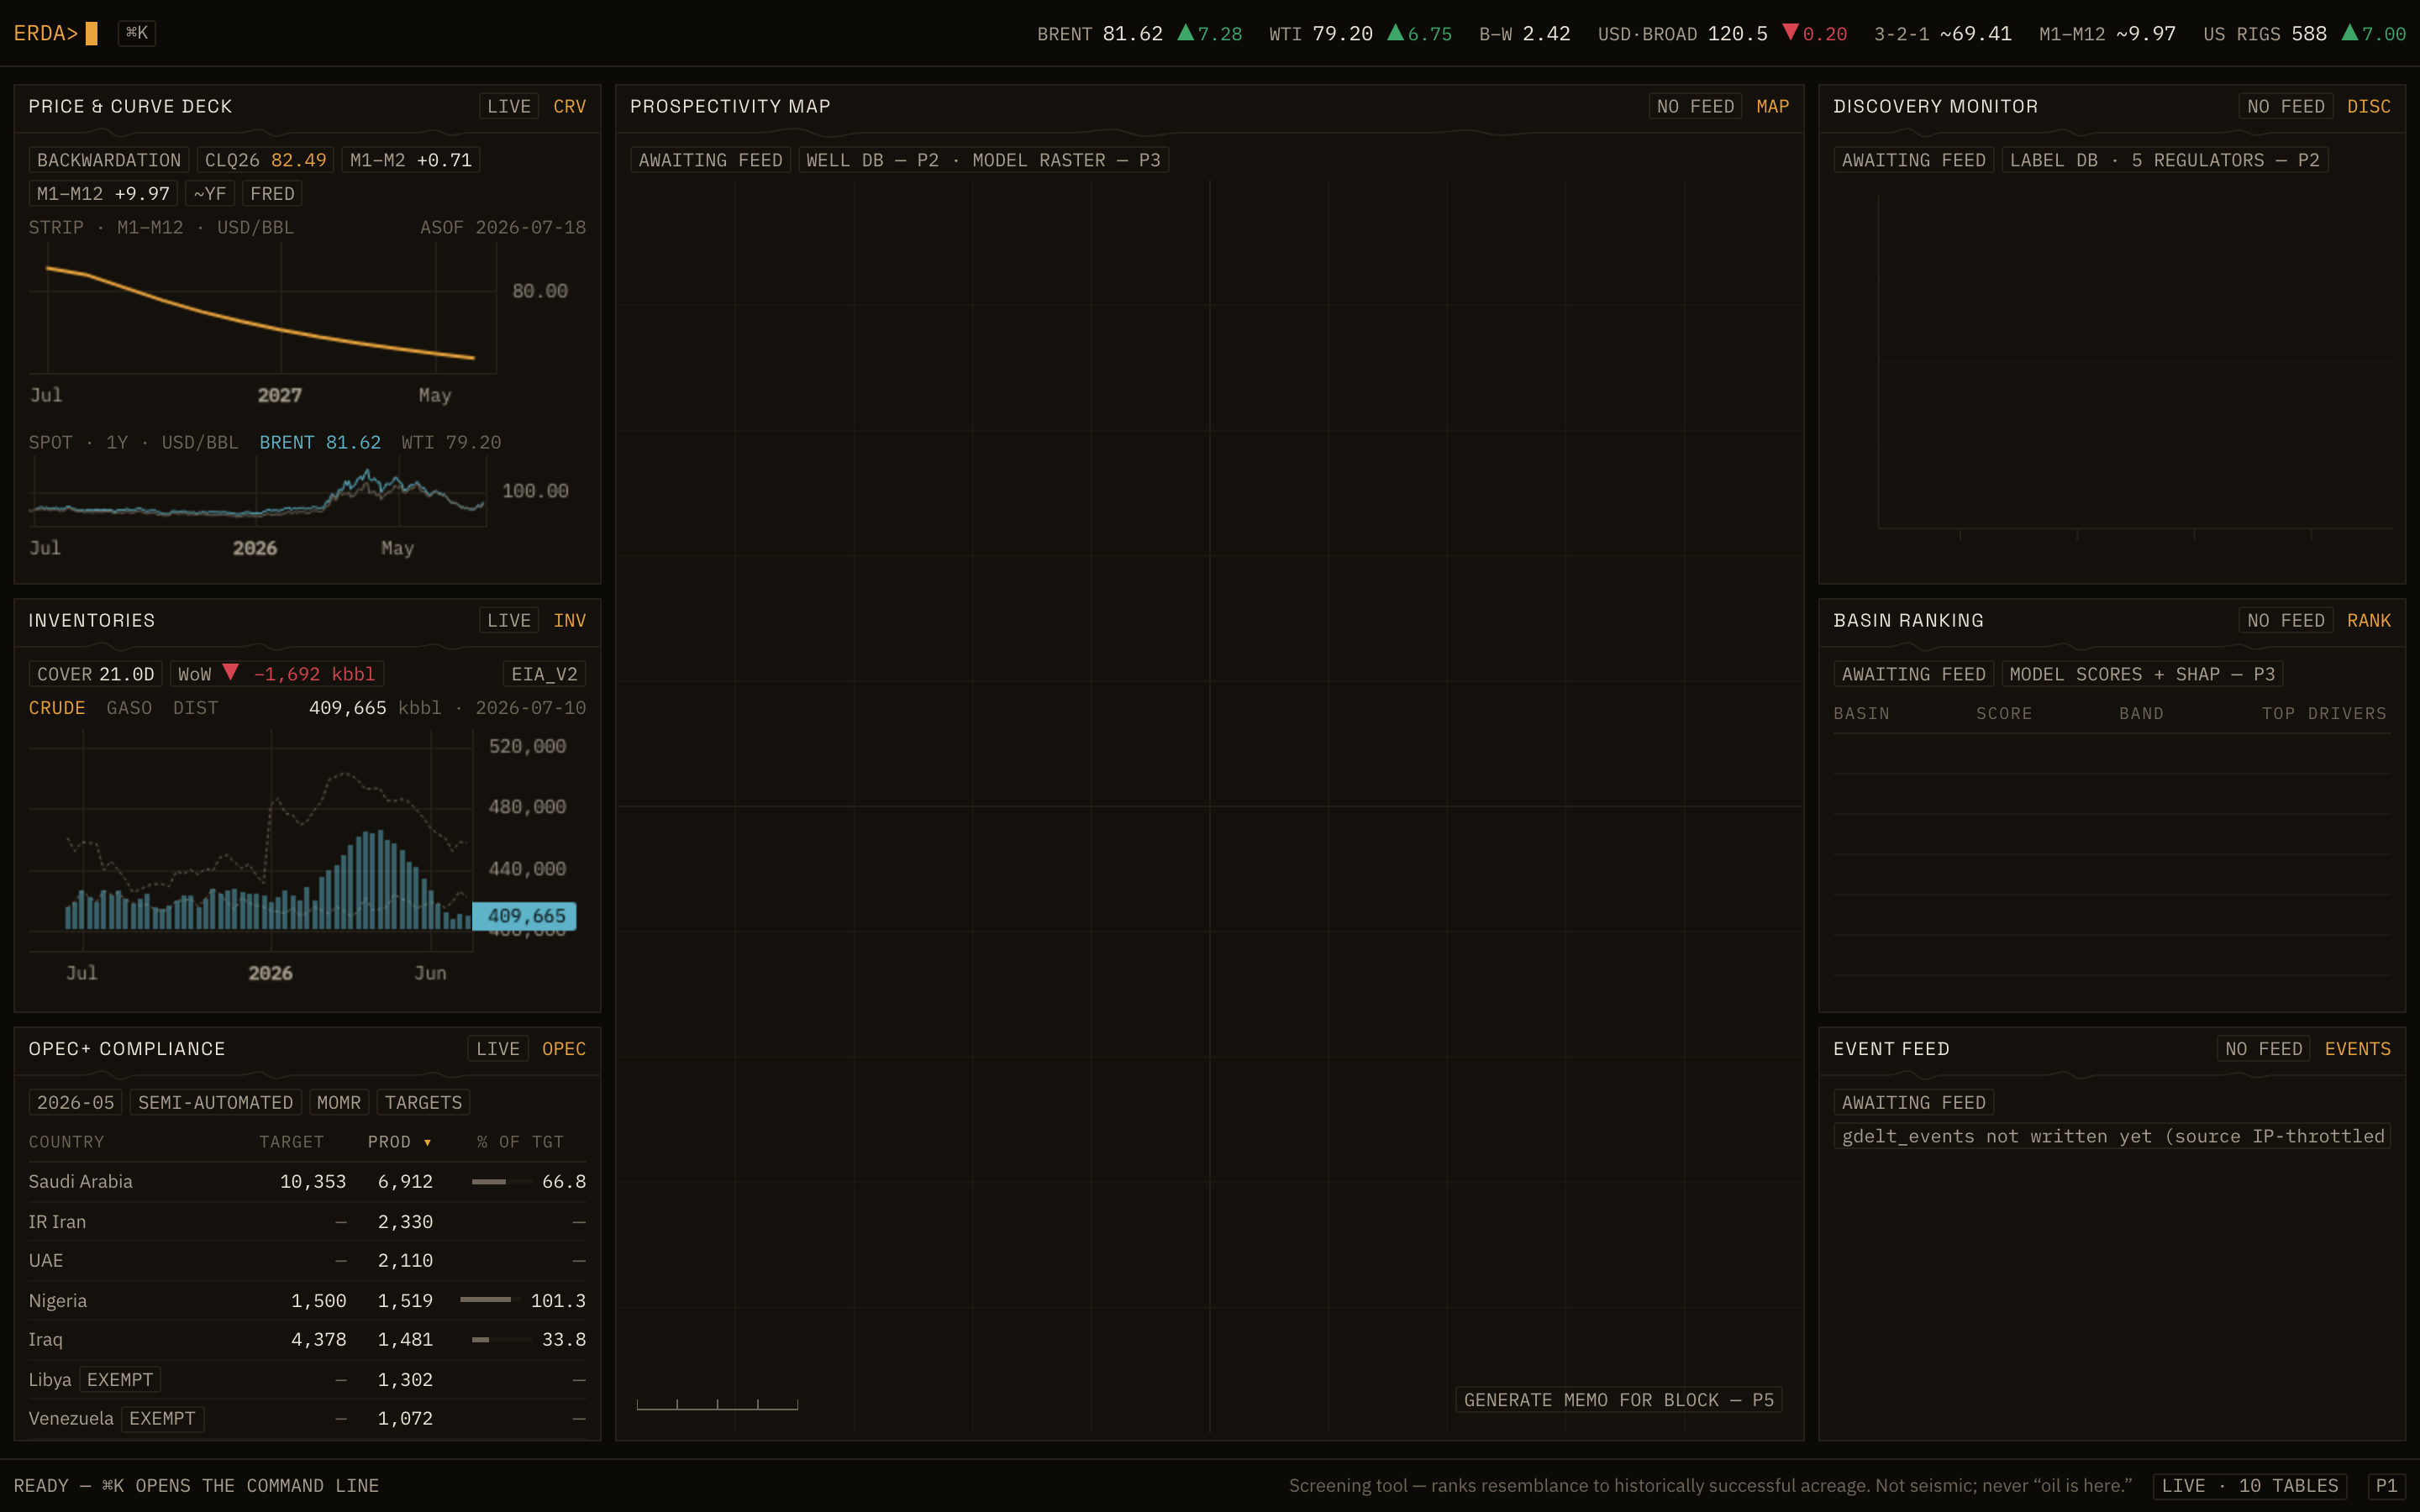
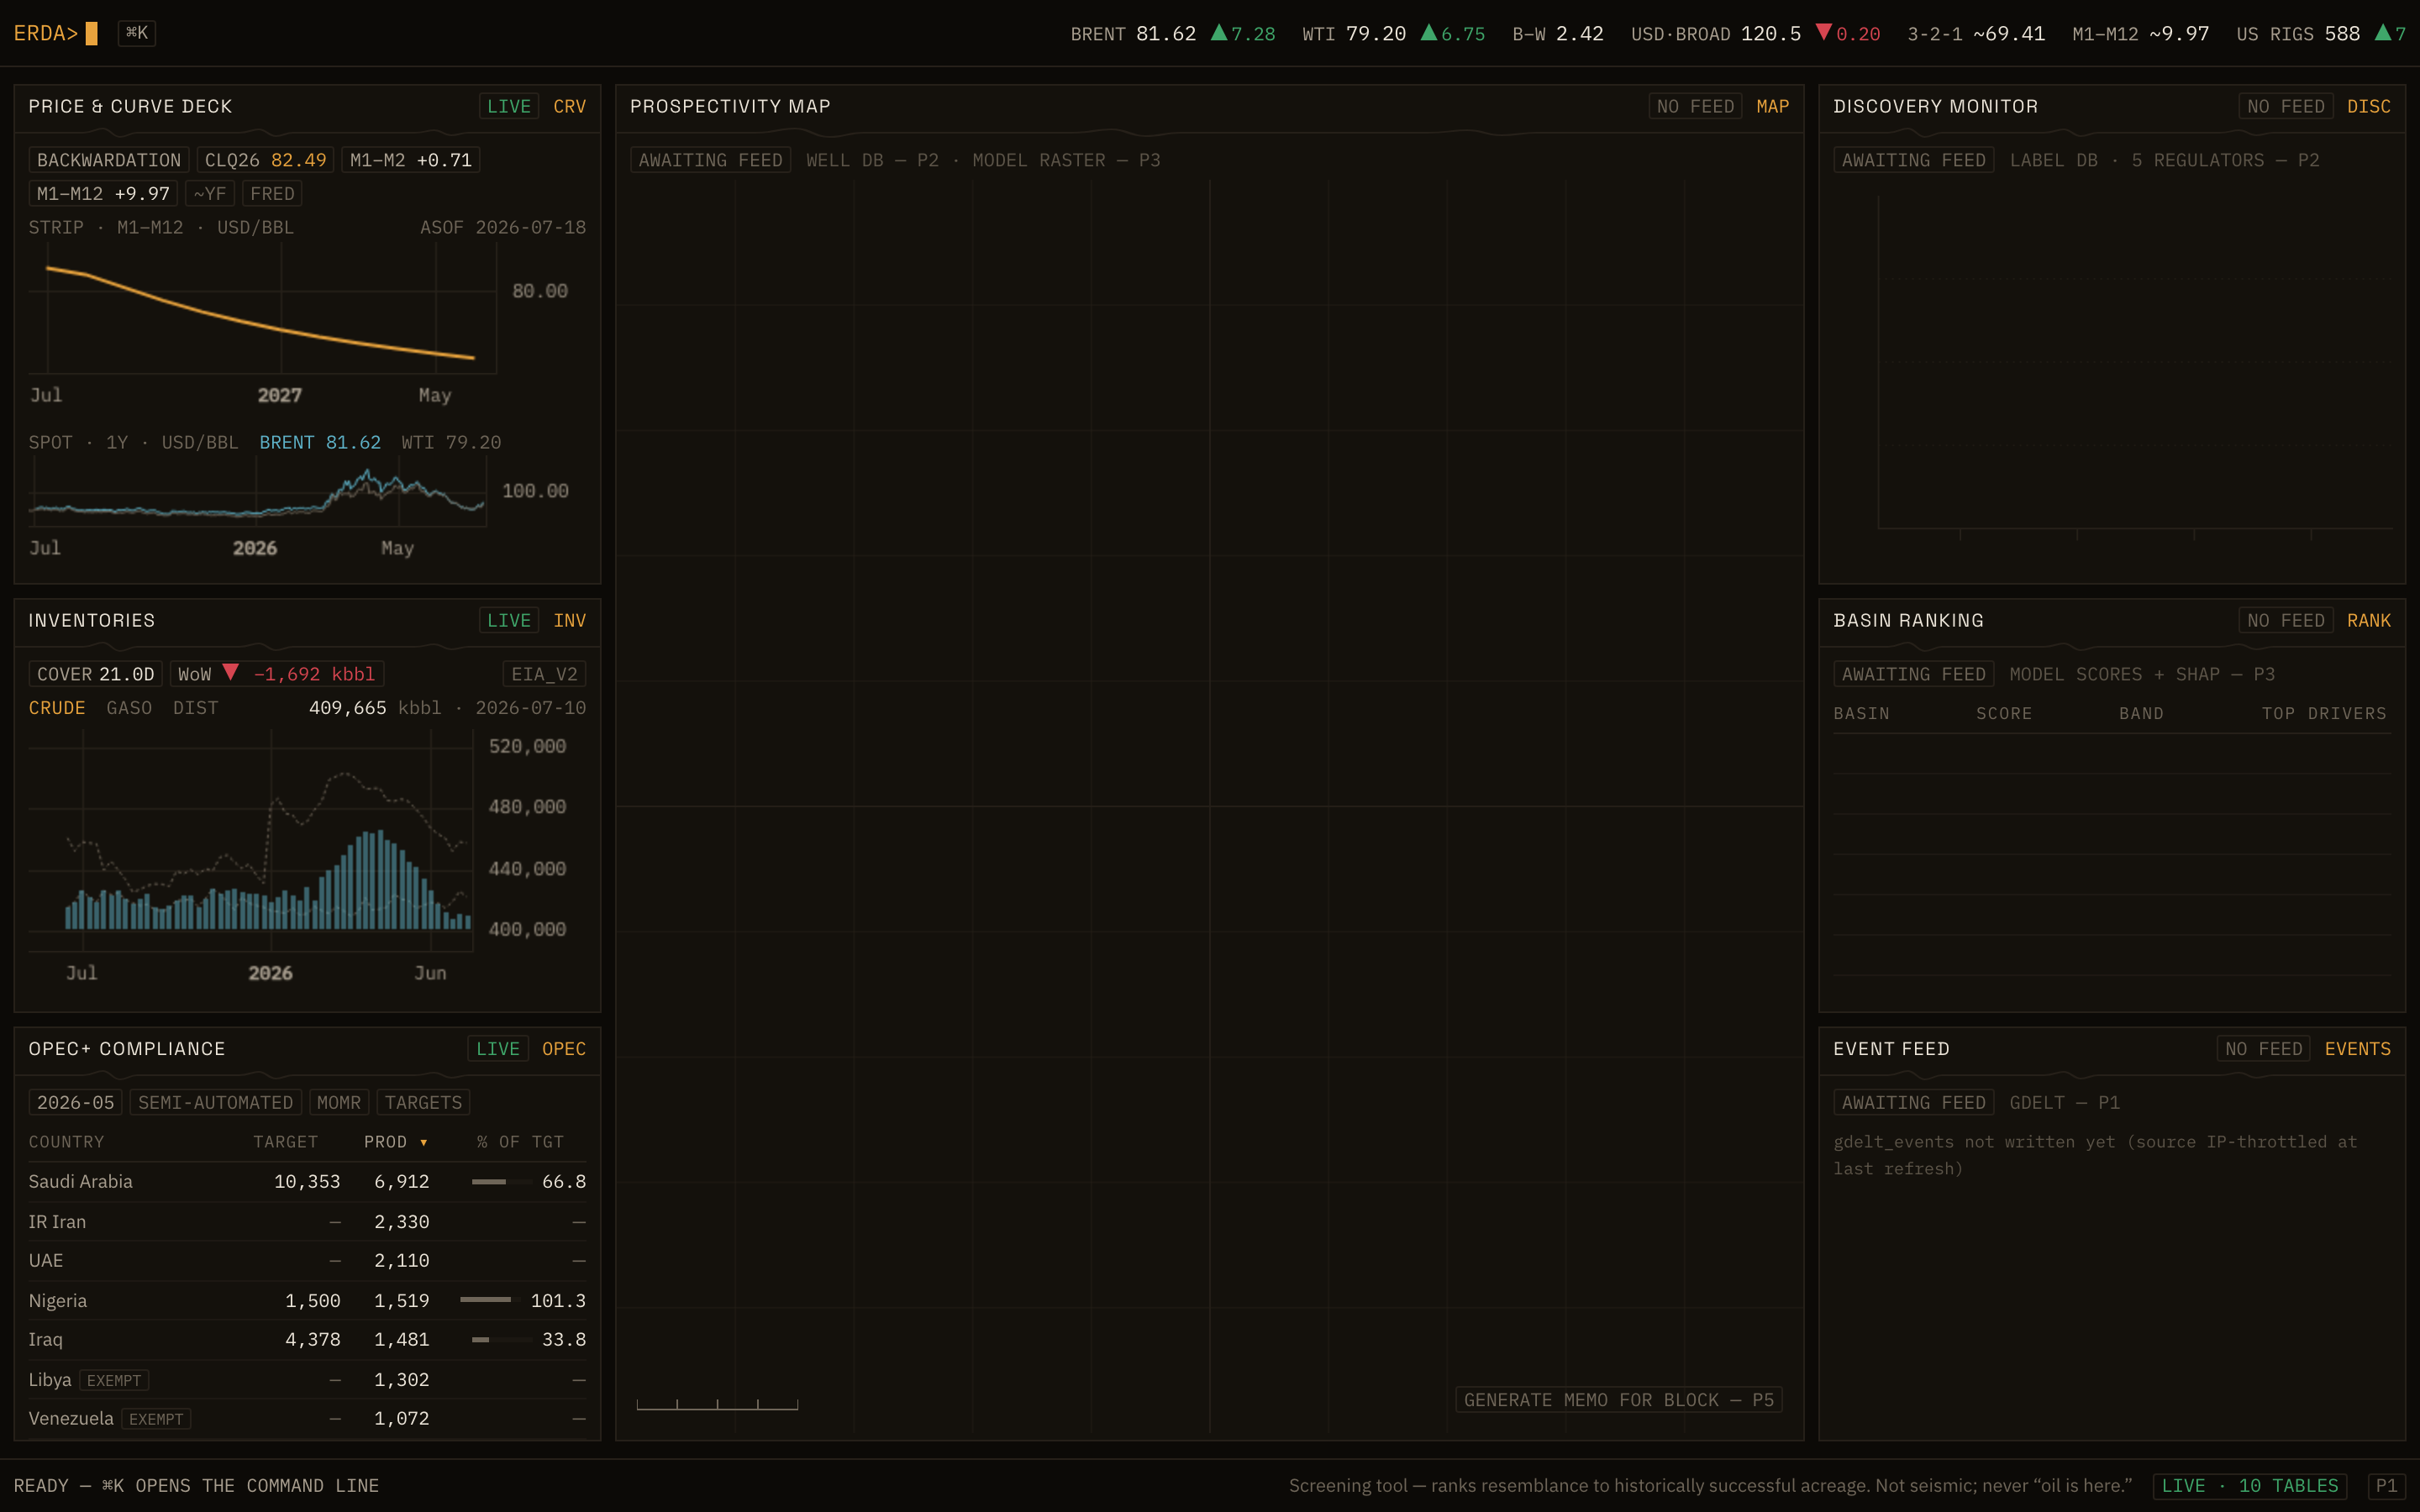
polish(web): verify-round fixes — layered component classes, band disclosure, honest details
- root cause: unlayered .chip/.panel beat text-* utilities, muting every status
  color; moved component classes into @user components — LIVE/STALE/OVERALL
  chips now render their sanctioned colors
- /validation: reconciliation thresholds disclosed in the panel caption
  (pass ≤5 / warn ≤10 / fail >10, Δ vs JODI); WARN tile count at data brightness
- EVENTS throttle reason wraps as prose instead of clipping mid-word
- INV: last-value tag removed (chip row already states it) — axis labels clear
- ticker: integer deltas for rig counts; Δ-window note in hover provenance
- crack-spread ~69 and OPEC production levels verified against independent
  sources (hand-recomputed from RB/HO quotes; EIA intl corroborates MOMR) —
  data is right, priors were peacetime

diff --git a/apps/web/src/app/globals.css b/apps/web/src/app/globals.css
@@ -65,49 +65,54 @@ body {
   scrollbar-color: var(--line) transparent;
 }
 
-/* ————— skill §2/§3 component classes ————— */
-.numeric {
-  font-family: var(--font-plex-mono), monospace;
-  font-variant-numeric: tabular-nums;
-}
+/* ————— skill §2/§3 component classes —————
+   In @layer components so Tailwind utilities (utilities layer, higher) can
+   modify them — e.g. `chip text-warn` on a STALE badge. Unlayered rules would
+   silently beat utilities (cascade: unlayered > layered). */
+@layer components {
+  .numeric {
+    font-family: var(--font-plex-mono), monospace;
+    font-variant-numeric: tabular-nums;
+  }
 
-.panel {
-  background: var(--bg1);
-  border: 1px solid var(--line);
-  border-radius: 0;
-  transition: border-color 120ms;
-}
+  .panel {
+    background: var(--bg1);
+    border: 1px solid var(--line);
+    border-radius: 0;
+    transition: border-color 120ms;
+  }
 
-/* Active state (command focus) — gold is sanctioned for active states (§13.1). */
-.panel--active {
-  border-color: var(--gold);
-}
+  /* Active state (command focus) — gold is sanctioned for active states (§13.1). */
+  .panel--active {
+    border-color: var(--gold);
+  }
 
-.panel-title {
-  font-family: var(--font-space-grotesk), sans-serif;
-  font-size: 11px;
-  text-transform: uppercase;
-  letter-spacing: 0.08em;
-  color: var(--ink);
-}
+  .panel-title {
+    font-family: var(--font-space-grotesk), sans-serif;
+    font-size: 11px;
+    text-transform: uppercase;
+    letter-spacing: 0.08em;
+    color: var(--ink);
+  }
 
-.panel-mnemo {
-  font-family: var(--font-plex-mono), monospace;
-  color: var(--gold);
-}
+  .panel-mnemo {
+    font-family: var(--font-plex-mono), monospace;
+    color: var(--gold);
+  }
 
-.chip {
-  display: inline-flex;
-  align-items: center;
-  height: 16px;
-  padding: 0 4px;
-  border: 1px solid var(--line);
-  border-radius: 2px;
-  font-family: var(--font-plex-mono), monospace;
-  font-size: 11px;
-  line-height: 1;
-  color: var(--ink-dim);
-  white-space: nowrap;
+  .chip {
+    display: inline-flex;
+    align-items: center;
+    height: 16px;
+    padding: 0 4px;
+    border: 1px solid var(--line);
+    border-radius: 2px;
+    font-family: var(--font-plex-mono), monospace;
+    font-size: 11px;
+    line-height: 1;
+    color: var(--ink-dim);
+    white-space: nowrap;
+  }
 }
 
 /* Command-line caret — the §13.1 signature. Steady: the idle prompt is an

diff --git a/apps/web/src/components/TopBar.tsx b/apps/web/src/components/TopBar.tsx
@@ -14,10 +14,13 @@ const PLACEHOLDER_INSTRUMENTS = ["BRENT", "WTI", "B–W", "3-2-1", "M1–M12", "
 function Delta({ delta }: { delta?: number | null }) {
   if (delta == null || delta === 0) return null;
   const up = delta > 0;
+  const abs = Math.abs(delta);
+  // Native precision: integer series (rig counts) never grow fake decimals.
+  const text = Number.isInteger(delta) ? abs.toFixed(0) : abs.toFixed(abs >= 10 ? 1 : 2);
   return (
     <span className={`numeric text-[11px] ${up ? "text-oil" : "text-gas"}`}>
       {up ? "▲" : "▼"}
-      {Math.abs(delta) >= 10 ? Math.abs(delta).toFixed(0) : Math.abs(delta).toFixed(2)}
+      {text}
     </span>
   );
 }
@@ -56,11 +59,11 @@ export function TopBar({ onOpenPalette }: { onOpenPalette: () => void }) {
               <span
                 key={inst.label}
                 className="flex items-baseline gap-1.5"
-                title={`${inst.unit} · as of ${inst.asof} · ${inst.provenance.source_id} · ${
-                  inst.provenance.source_url
-                }${inst.indicative ? " · indicative (unofficial source)" : ""}${
-                  inst.note ? ` · ${inst.note}` : ""
-                }`}
+                title={`${inst.unit} · as of ${inst.asof} · Δ vs prior print · ${
+                  inst.provenance.source_id
+                } · ${inst.provenance.source_url}${
+                  inst.indicative ? " · indicative (unofficial source)" : ""
+                }${inst.note ? ` · ${inst.note}` : ""}`}
               >
                 <span className="font-mono text-[11px] text-ink-dim">{inst.label}</span>
                 <span className="numeric text-[12px] text-ink">

diff --git a/apps/web/src/components/panels/EventsPanel.tsx b/apps/web/src/components/panels/EventsPanel.tsx
@@ -18,7 +18,12 @@ export function EventsPanel() {
   if (!data || !data.available) {
     return (
       <div className="flex h-full flex-col pt-1">
-        <EmptyState feedNote={data?.reason ?? "GDELT — P1"} />
+        <EmptyState feedNote="GDELT — P1" />
+        {data?.reason && (
+          <p className="px-2 pt-1 font-mono text-[10px] leading-4 text-ink-faint/80">
+            {data.reason}
+          </p>
+        )}
       </div>
     );
   }

diff --git a/apps/web/src/app/validation/page.tsx b/apps/web/src/app/validation/page.tsx
@@ -215,7 +215,7 @@ function ReconSection({ rows }: { rows: ReconRow[] }) {
     <ReportPanel
       title="EIA ↔ JODI Reconciliation"
       mnemo="RCN"
-      caption="monthly production kb/d, both sources side by side"
+      caption="monthly production kb/d, both sources side by side · pass |Δ| ≤ 5% · warn ≤ 10% · fail > 10% (Δ vs JODI)"
       right={<span className="chip text-ink-faint">{rows.length} CHECKS</span>}
     >
       <table className="w-full border-collapse">
@@ -430,7 +430,7 @@ function SummaryStrip({
 }) {
   const tiles: { label: string; count: number; cls: string }[] = [
     { label: "PASS", count: summary.pass, cls: "text-oil" },
-    { label: "WARN", count: summary.warn, cls: "text-ink-dim" },
+    { label: "WARN", count: summary.warn, cls: "text-ink" },
     { label: "FAIL", count: summary.fail, cls: "text-warn" },
   ];
   return (

diff --git a/apps/web/src/components/panels/InventoriesPanel.tsx b/apps/web/src/components/panels/InventoriesPanel.tsx
@@ -99,6 +99,9 @@ function StocksChart({ series }: { series: InventorySeries }) {
     bars.current = c.addSeries(HistogramSeries, {
       color: "rgba(95, 179, 201, 0.5)", // --cyan, dimmed
       priceLineVisible: false,
+      // The chip row already states the latest level; the on-axis tag only
+      // collides with scale labels at panel height.
+      lastValueVisible: false,
       priceFormat: { type: "custom", formatter: fmtKbbl, minMove: 1 },
     });
     chart.current = c;